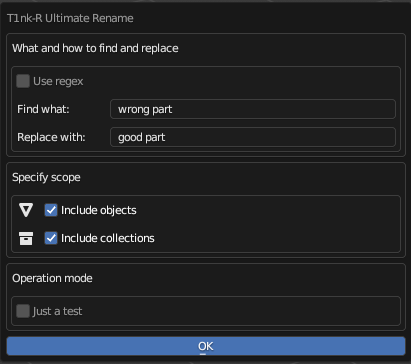
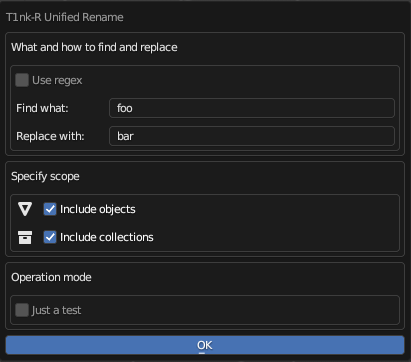
Fixing typos

diff --git a/rename.py b/rename.py
@@ -49,7 +49,7 @@ from bpy.types import Operator, AddonPreferences, PropertyGroup
 
 
 # Addon settings for add-on preferences ###########################################################################################
-class T1nkerUltimateRenameAddonSettings(PropertyGroup):
+class T1nkerUnifiedRenameAddonSettings(PropertyGroup):
     isRegex: BoolProperty(
         name="Use regex", 
         description="Click if you want to use regular expressions",
@@ -103,13 +103,13 @@ class T1nkerUltimateRenameAddonSettings(PropertyGroup):
     """
 
 # Addon preferences ###############################################################################################################
-class T1nkerUltimateRenameAddonPreferences(AddonPreferences):
+class T1nkerUnifiedRenameAddonPreferences(AddonPreferences):
     
     # Properties required by Blender ==============================================================================================
     bl_idname = __package__
     
     # Other properties ============================================================================================================
-    settings : PointerProperty(type=T1nkerUltimateRenameAddonSettings)
+    settings : PointerProperty(type=T1nkerUnifiedRenameAddonSettings)
 
     # Public functions ============================================================================================================
 
@@ -127,18 +127,18 @@ class T1nkerUltimateRenameAddonPreferences(AddonPreferences):
 
                 
 # Main operator class #############################################################################################################
-class T1NKER_OT_UltimateRename(Operator):    
+class T1NKER_OT_UnifiedRename(Operator):    
     """Rename collections and objects in one go using plain text or regex"""
     
     # Properties ==================================================================================================================
     
     # Blender-specific stuff ------------------------------------------------------------------------------------------------------    
-    bl_idname = "t1nker.ultimaterename"
-    bl_label = "T1nk-R Ultimate Rename"
+    bl_idname = "t1nker.unifiedrename"
+    bl_label = "T1nk-R Unified Rename"
     bl_options = {'REGISTER', 'UNDO'}    
     
     # Operator settings
-    settings : T1nkerUltimateRenameAddonSettings = None        
+    settings : T1nkerUnifiedRenameAddonSettings = None        
 
     # Lifecycle management ========================================================================================================
     def __init__(self):
@@ -301,7 +301,7 @@ class T1NKER_OT_UltimateRename(Operator):
         Check if the object received is subject to renaming and perform rename if it is.
 
         Args:
-            object (bpy.types.Object or bpty.types.Collection): The object or collection to rename if matching conditions.
+            object (bpy.types.Object or bpy.types.Collection): The object or collection to rename if matching conditions.
 
         Returns:
             True if the item was renamed, false if not

diff --git a/__init__.py b/__init__.py
@@ -44,7 +44,7 @@
 
 # Blender add-on identification ===================================================================================================
 bl_info = {
-    "name": "T1nk-R Ultimate Rename (T1nk-R Utilities)",
+    "name": "T1nk-R Unified Rename (T1nk-R Utilities)",
     "author": "T1nk-R (GusJ)",
     "version": (1, 0, 0),
     "blender": (2, 91, 0),
@@ -74,9 +74,9 @@ Store keymaps here to access after registration.
 """
 
 classes = [
-    rename.T1nkerUltimateRenameAddonSettings, 
-    rename.T1nkerUltimateRenameAddonPreferences, 
-    rename.T1NKER_OT_UltimateRename
+    rename.T1nkerUnifiedRenameAddonSettings, 
+    rename.T1nkerUnifiedRenameAddonPreferences, 
+    rename.T1NKER_OT_UnifiedRename
 ]
 """
 List of classes requiring registration and unregistration.
@@ -92,7 +92,7 @@ def menuItem(self, context):
     Add a menu item
     """
     self.layout.operator_context = 'INVOKE_DEFAULT'
-    self.layout.operator(rename.T1NKER_OT_UltimateRename.bl_idname)
+    self.layout.operator(rename.T1NKER_OT_UnifiedRename.bl_idname)
 
 # Register the plugin -------------------------------------------------------------------------------------------------------------
 def register():
@@ -126,7 +126,7 @@ def register():
         # The hotkey will only be available when the mouse is within an Outliner
         km = wm.keyconfigs.addon.keymaps.new(name='Outliner', space_type='OUTLINER')
         
-        kmi = km.keymap_items.new(rename.T1NKER_OT_UltimateRename.bl_idname, 'F2', 'PRESS', ctrl=True, shift=True)
+        kmi = km.keymap_items.new(rename.T1NKER_OT_UnifiedRename.bl_idname, 'F2', 'PRESS', ctrl=True, shift=True)
         
         addon_keymaps.append((km, kmi))
 

diff --git a/README.md b/README.md
@@ -2,7 +2,7 @@
 
 Part of **T1nk-R Utilities for Blender**
 
-![Alt text](art/repo-card-unified-rename.png)
+![Repo card of the add-on](art/repo-card-unified-rename.png)
 
 ## TL;DR
 
@@ -16,7 +16,7 @@ Help, support, updates and anything else: [https://github.com/gusztavj/T1nkR-Ble
 
 ### Copyright
 
-This add-on has been created by [T1nk-R (https://github.com/gusztavj/)]((https://github.com/gusztavj/)).
+This add-on has been created by [T1nk-R (https://github.com/gusztavj/)](https://github.com/gusztavj/).
 
 **Creative Commons CC BY-NC-SA:**
 
@@ -53,24 +53,24 @@ You may learn more about legal matters on page [https://github.com/gusztavj/T1nk
 You can use this add-on when you are in the **Outliner**, meaning that your mouse cursor is floating over an **Outliner** window. To invoke the dialog, either:
 
 * Hit the shortcut, **CTRL+SHIFT+F2** by default.
-* Right-click on some empty space in the **Outliner** and find **T1nk-R Ultimate Rename** near the end of the menu.
-* Right-click on an object in the **Outliner** and find **T1nk-R Ultimate Rename** near the end of the menu.
-* Right-click on a collectiion in the **Outliner** and find **T1nk-R Ultimate Rename** near the end of the menu.
+* Right-click on some empty space in the **Outliner** and find **T1nk-R Unified Rename** near the end of the menu.
+* Right-click on an object in the **Outliner** and find **T1nk-R Unified Rename** near the end of the menu.
+* Right-click on a collection in the **Outliner** and find **T1nk-R Unified Rename** near the end of the menu.
 
 The dialog features a couple of settings:
 |![Screenshot of the add-on's dialog](art/add-on-dialog.png)|
 |:--:|
-|_The **T1nk-R Ultimate Rename** dialog_|
+|_The **T1nk-R Unified Rename** dialog_|
 
 ### What and how to find and replace
 
 * **Use regex**
-  * Check if you want to specify a regular expression in the **Find what** and **Replace with** fields. 
+  * Check if you want to specify a regular expression in the **Find what** and **Replace with** fields.
   * Leave empty if you want to search plain text and replace it with plain text.
 
 * **Find what**. Enter the search term. If **Use regex** is checked, this will be considered a regular expression, otherwise plain text.
 
-* **Reaplce with**. Enter the replacement term. If **Use regex** is checked, this will be considered a regular expression, otherwise plain text.
+* **Replace with**. Enter the replacement term. If **Use regex** is checked, this will be considered a regular expression, otherwise plain text.
 
 ### Specify scope
 
